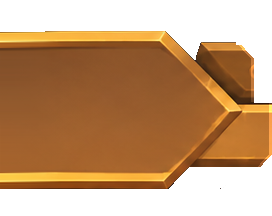
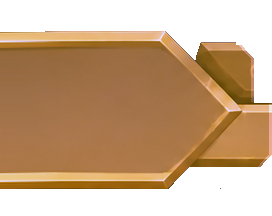
Title bar kit: recoloured to the Overlord Profile bar, phone size matches its thickness
Claude-Session: https://claude.ai/code/session_01JamU3DGA95eo1q8PxeEFBV

diff --git a/art/originals/ui/titlebar/README.md b/art/originals/ui/titlebar/README.md
@@ -1,0 +1,5 @@
+# Title bar kit (Nov 2026)
+- From ChatGPT (kit_gpt_v1.png, ref = Overlord Profile header). No blue brackets (Harley).
+- Pieces (216 px tall canvas): tb2_cap_long_left/right (bar runs off screen), tb2_middle (stretch), tb2_cap_short_left/right (staggered bracket stub that just pokes past a menu edge), oct.png (blank socket), arrow.png (back arrow).
+- Recoloured to the Overlord Profile bar (body #A27349, rims #EABF82); *_gptcolour.png = ChatGPT's original colours. Dark outline band trimmed off.
+- Same thickness as the Overlord Profile bar = show the 216 canvas at ~48 CSS px tall (phone webps in art/ui are 143 px = 3x).
